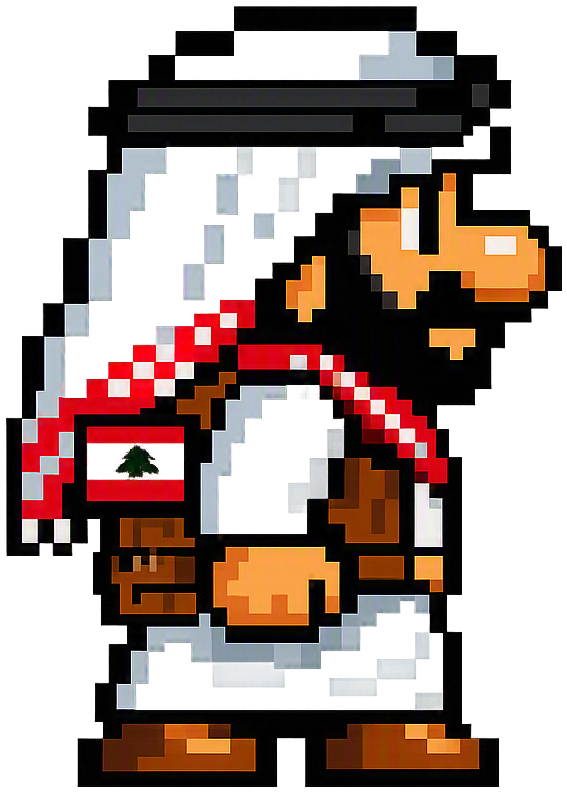
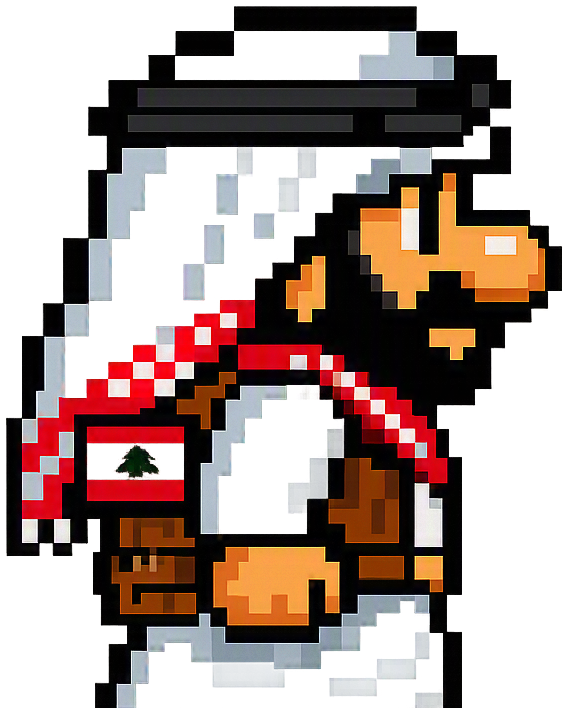
Give Habib real animated legs instead of a whole-sprite hop
Cropped habib.png at the hip (was a full standing pose with static
painted boots) and draw two procedural boots below it each frame,
scissoring in a run cycle driven by the same runPhase used for the old
hop, tucking into a jump pose mid-air, and settling together when idle.
Reduced the old whole-body hop to a subtle synced bob rather than
removing it outright, since a little torso motion still reads well
alongside real leg movement.

diff --git a/velora games/Run Habib/run-habib.js b/velora games/Run Habib/run-habib.js
@@ -166,7 +166,7 @@
   // everything else (tiles, backdrop, props) is drawn with canvas
   // primitives, same lightweight approach as the rest of Velora's games.
   // ---------------------------------------------------------------------
-  const ASSET_V = "3";
+  const ASSET_V = "4";
   const habibImg = new Image();
   habibImg.src = "assets/habib.png?v=" + ASSET_V;
   const monsterImg = new Image();
@@ -437,7 +437,7 @@
   showOverlay(
     "Run Habib",
     "The Arab Monster has taken the Princess into the old kingdom. Habib's not waiting for anyone else to go get her.",
-    "assets/habib.png?v=3",
+    "assets/habib.png?v=4",
     "▶ Start Running"
   );
 
@@ -487,7 +487,7 @@
       showOverlay(
         "Paused",
         "Take a breath — the old kingdom will still be there when you get back.",
-        "assets/habib.png?v=3",
+        "assets/habib.png?v=4",
         "▶ Resume"
       );
     } else if (state === "paused") {
@@ -508,7 +508,7 @@
     updateHud();
     if (lives <= 0) {
       state = "gameover";
-      showOverlay("Habib is out of chances", `You collected ${coinCount} coins this run. The Princess is still waiting.`, "assets/habib.png?v=3", "↻ Try Again");
+      showOverlay("Habib is out of chances", `You collected ${coinCount} coins this run. The Princess is still waiting.`, "assets/habib.png?v=4", "↻ Try Again");
       return;
     }
     // Respawn in place rather than restarting the whole level — losing a
@@ -952,21 +952,52 @@
     }
   }
 
+  // habib.png is cropped at the hip (was the full 567x792 figure; now
+  // 567x708 with the original static boots trimmed off) so real, moving
+  // legs can be drawn under it each frame instead of the whole sprite
+  // just hopping in place. Boot geometry below is hand-measured from
+  // where those original boots sat, in the same source-pixel space.
+  const BOOT_L = { x: 78, w: 198 };
+  const BOOT_R = { x: 305, w: 193 };
+  const BOOT_H = 78;
+  const HABIB_HALF_W = 567 / 2;
+  function legStride(phase) {
+    const swing = Math.sin(phase);
+    return { dx: swing * 20, dy: Math.max(0, -Math.cos(phase)) * 12 };
+  }
+  function drawBoot(boot, dx, dy) {
+    const bx = boot.x - HABIB_HALF_W + dx;
+    ctx.fillStyle = "#a85a1c";
+    ctx.fillRect(bx, dy, boot.w, 22);
+    ctx.fillStyle = "#5a2410";
+    ctx.fillRect(bx, dy + 20, boot.w, BOOT_H - 20);
+  }
+
   function drawPlayer() {
     if (invincibleTimer > 0 && Math.floor(elapsedInLevel * 14) % 2 === 0) return; // hurt-flicker
     const sx = player.x - camX;
-    const bob = player.onGround ? Math.abs(Math.sin(player.runPhase)) * 5 : 0;
+    const bob = player.onGround ? Math.abs(Math.sin(player.runPhase)) * 2 : 0;
     ctx.save();
     ctx.translate(sx + player.w / 2, player.y + player.h - bob);
-    // habib.png is now trimmed tight to its actual content (was 1024x1153
-    // with 216px of dead transparent space below his feet, which is why he
-    // used to render floating above the ground — the old scale was tuned
-    // for that untrimmed size). 0.076 targets the same ~60px on-screen
-    // height against the new 567x792 source.
     ctx.scale(player.facing * 0.076, 0.076 * player.squash);
     if (starTimer > 0) {
       ctx.filter = `hue-rotate(${Math.floor(elapsedInLevel * 600) % 360}deg) saturate(1.6)`;
     }
+
+    let legA, legB;
+    if (!player.onGround) {
+      legA = { dx: -14, dy: -16 };
+      legB = { dx: 16, dy: -8 };
+    } else if (Math.abs(player.vx) < 5) {
+      legA = { dx: 0, dy: 0 };
+      legB = { dx: 0, dy: 0 };
+    } else {
+      legA = legStride(player.runPhase);
+      legB = legStride(player.runPhase + Math.PI);
+    }
+    drawBoot(BOOT_L, legA.dx, legA.dy);
+    drawBoot(BOOT_R, legB.dx, legB.dy);
+
     if (habibImg.complete && habibImg.naturalWidth) {
       ctx.drawImage(habibImg, -habibImg.width / 2, -habibImg.height);
     }

diff --git a/velora games/Run Habib/index.html b/velora games/Run Habib/index.html
@@ -76,7 +76,7 @@
 
             <div class="rh-overlay" id="rhOverlay">
               <div class="rh-overlay-panel" id="rhOverlayPanel">
-                <img src="assets/habib.png?v=3" alt="" class="rh-overlay-art" id="rhOverlayArt" />
+                <img src="assets/habib.png?v=4" alt="" class="rh-overlay-art" id="rhOverlayArt" />
                 <h3 id="rhOverlayTitle">Run Habib</h3>
                 <p id="rhOverlayBody">The Arab Monster has taken the Princess into the old kingdom. Habib's not waiting for anyone else to go get her.</p>
                 <button type="button" class="dragon-store-open-btn" id="rhStartBtn">▶ Start Running</button>
